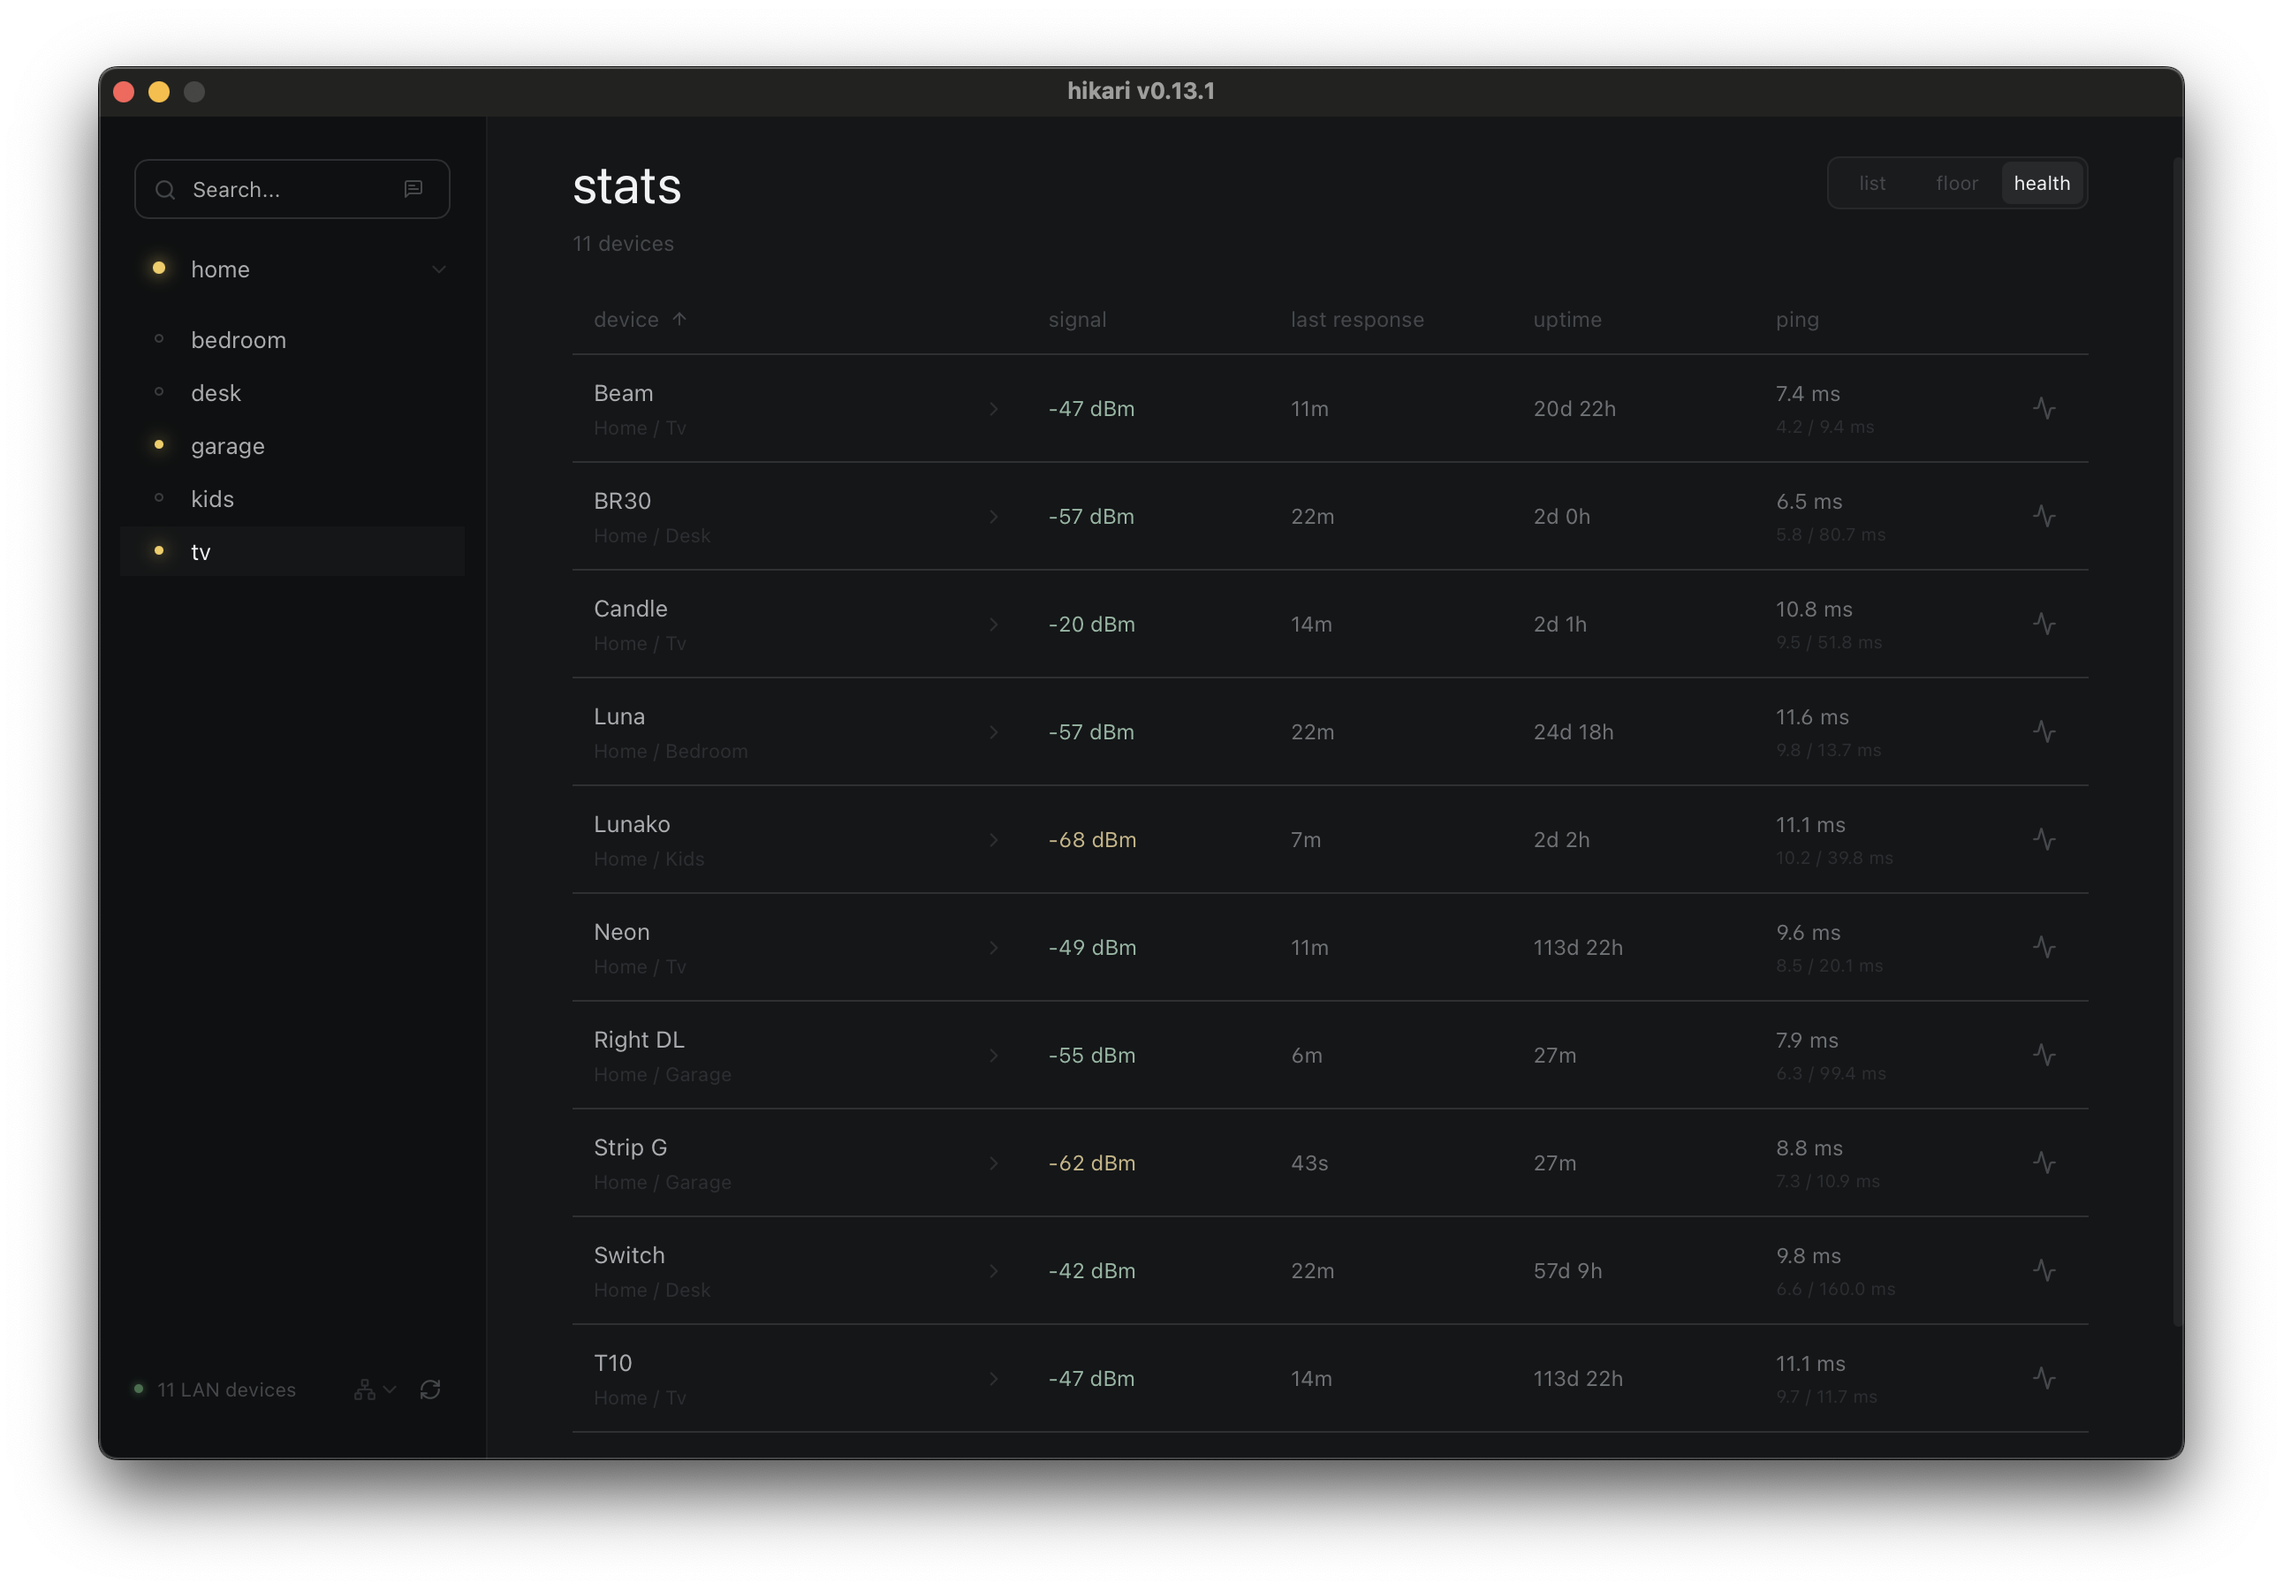
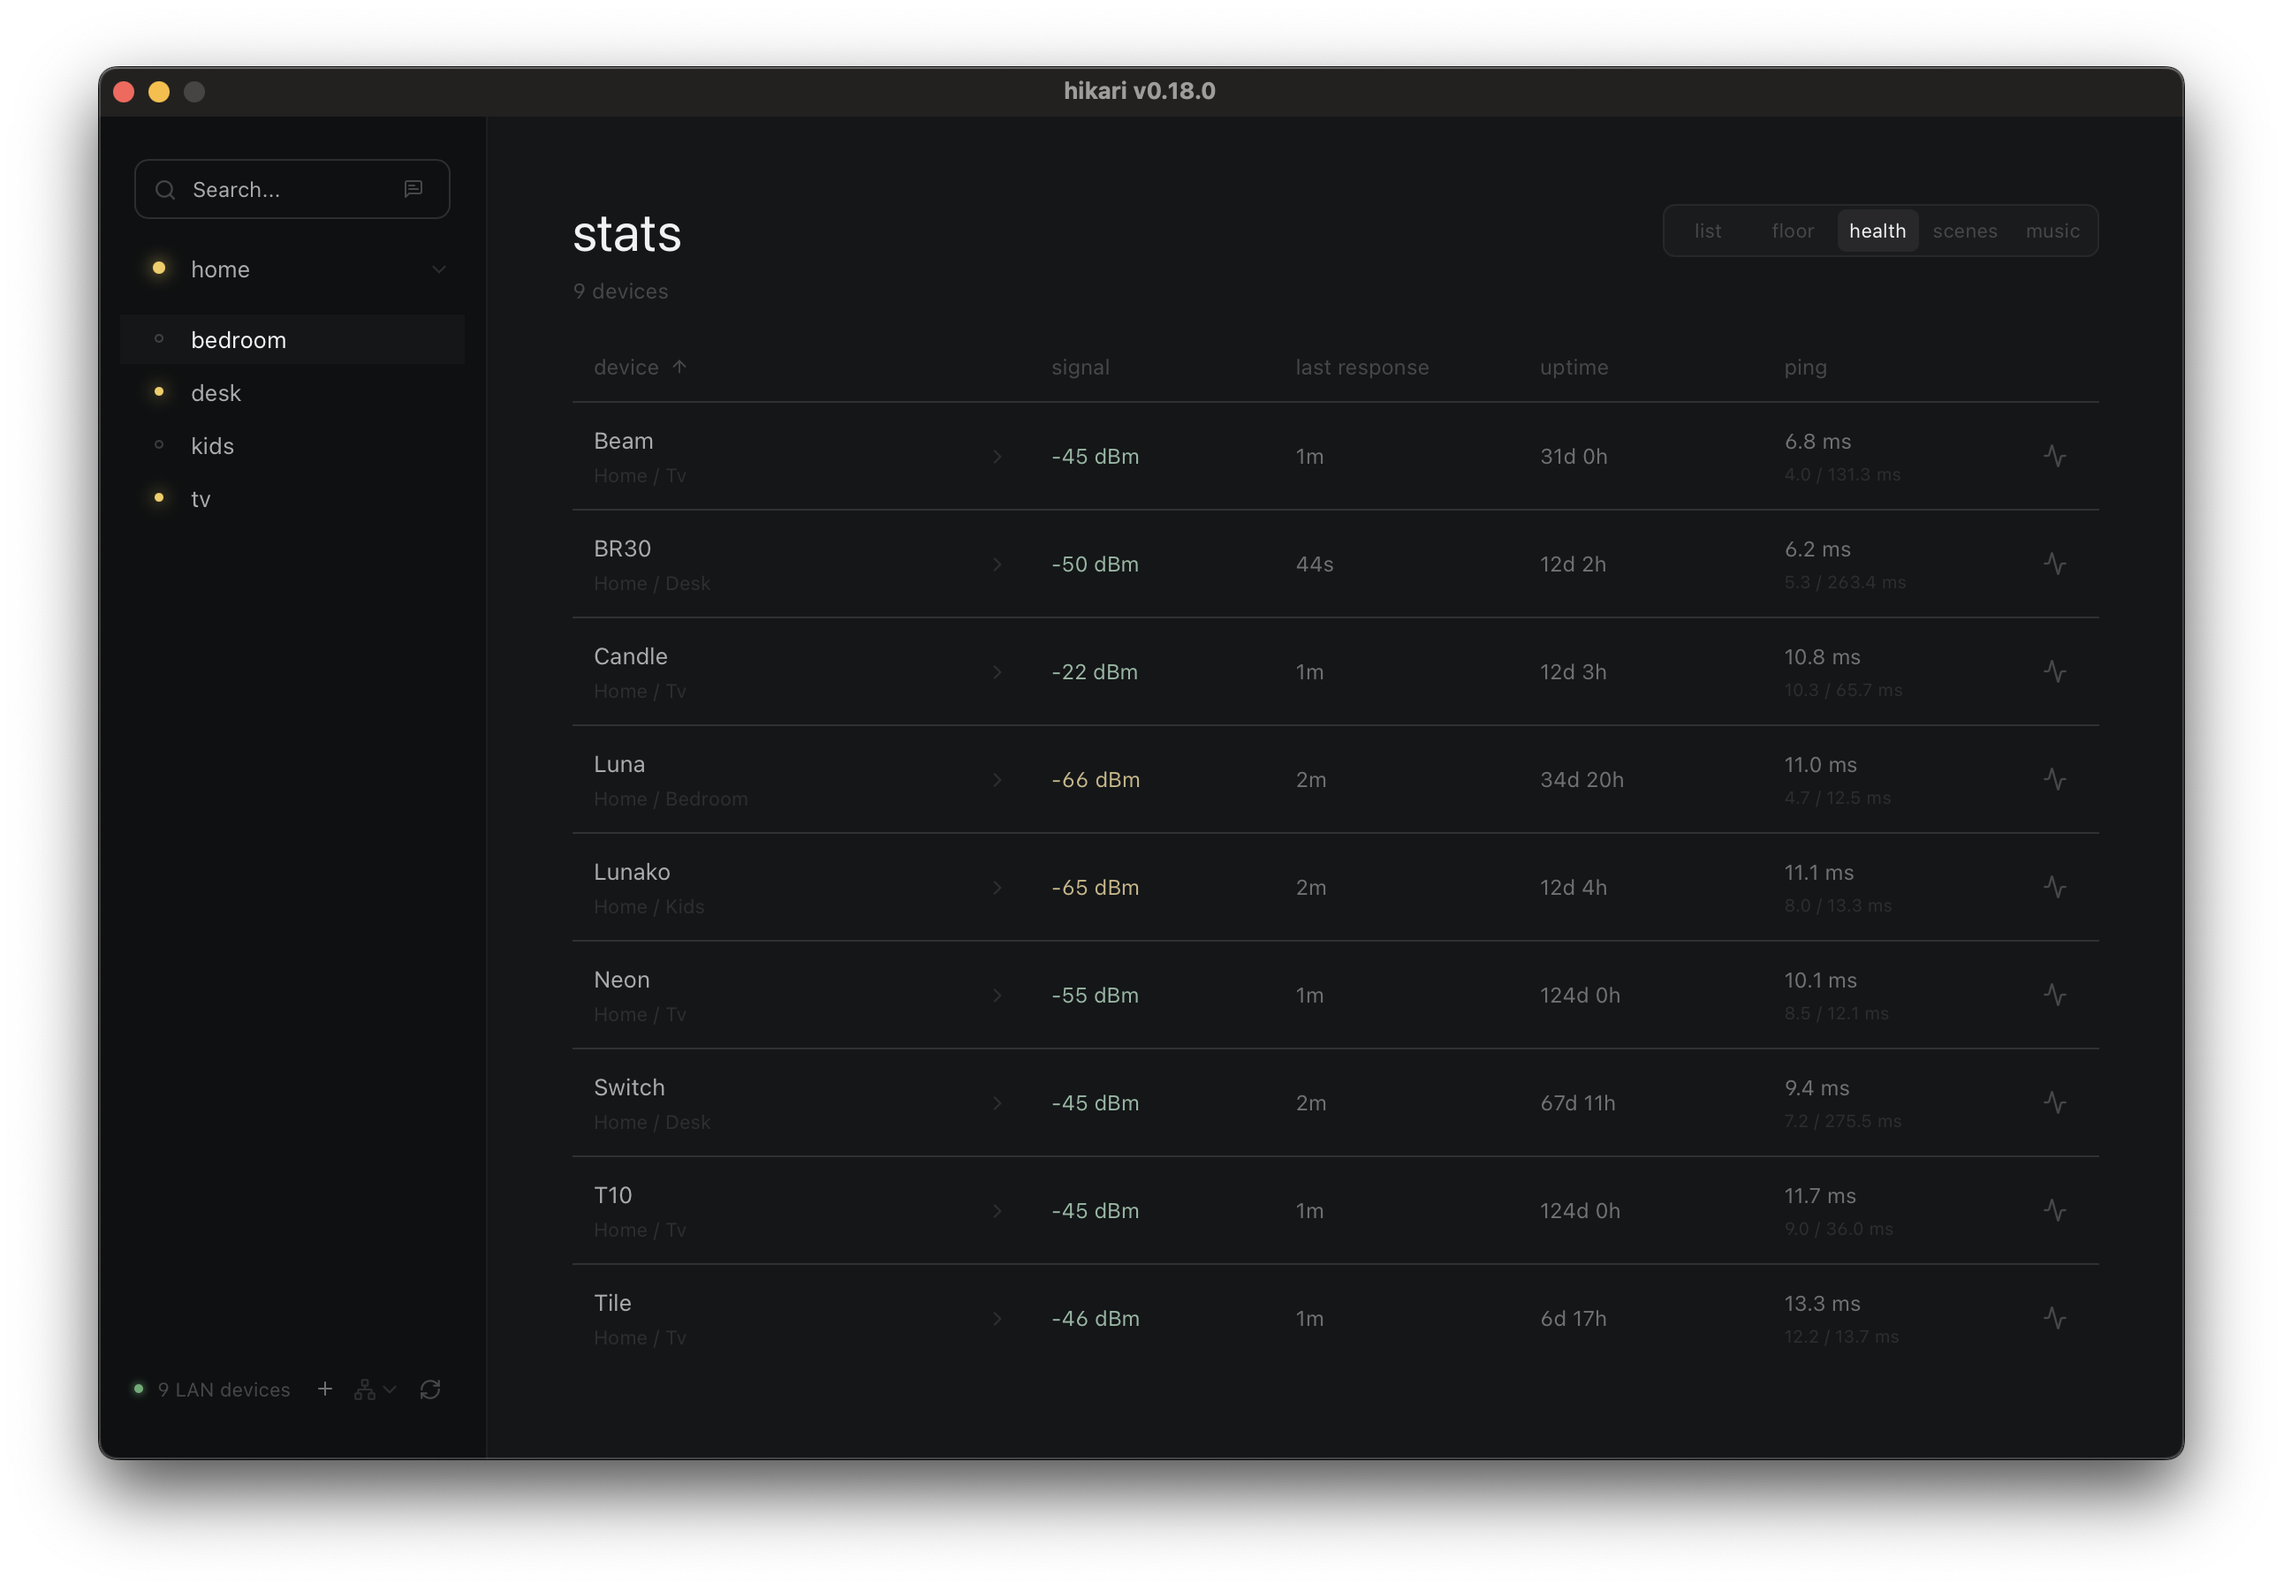
[docs] refresh screenshots and add Music and Scenes views

diff --git a/README.md b/README.md
@@ -72,6 +72,14 @@ See signal quality, last-response age, uptime, and on-demand ping results in the
 <details>
 <summary>More Views</summary>
 
+### Scenes
+
+![hikari saved scenes and captured device states](docs/scenes.png)
+
+### Music
+
+![hikari Music controls with live signal monitoring and selected lights](docs/music.png)
+
 ### Matrix Editor
 
 ![hikari matrix editor with a pending gradient](docs/matrix-editor.png)
